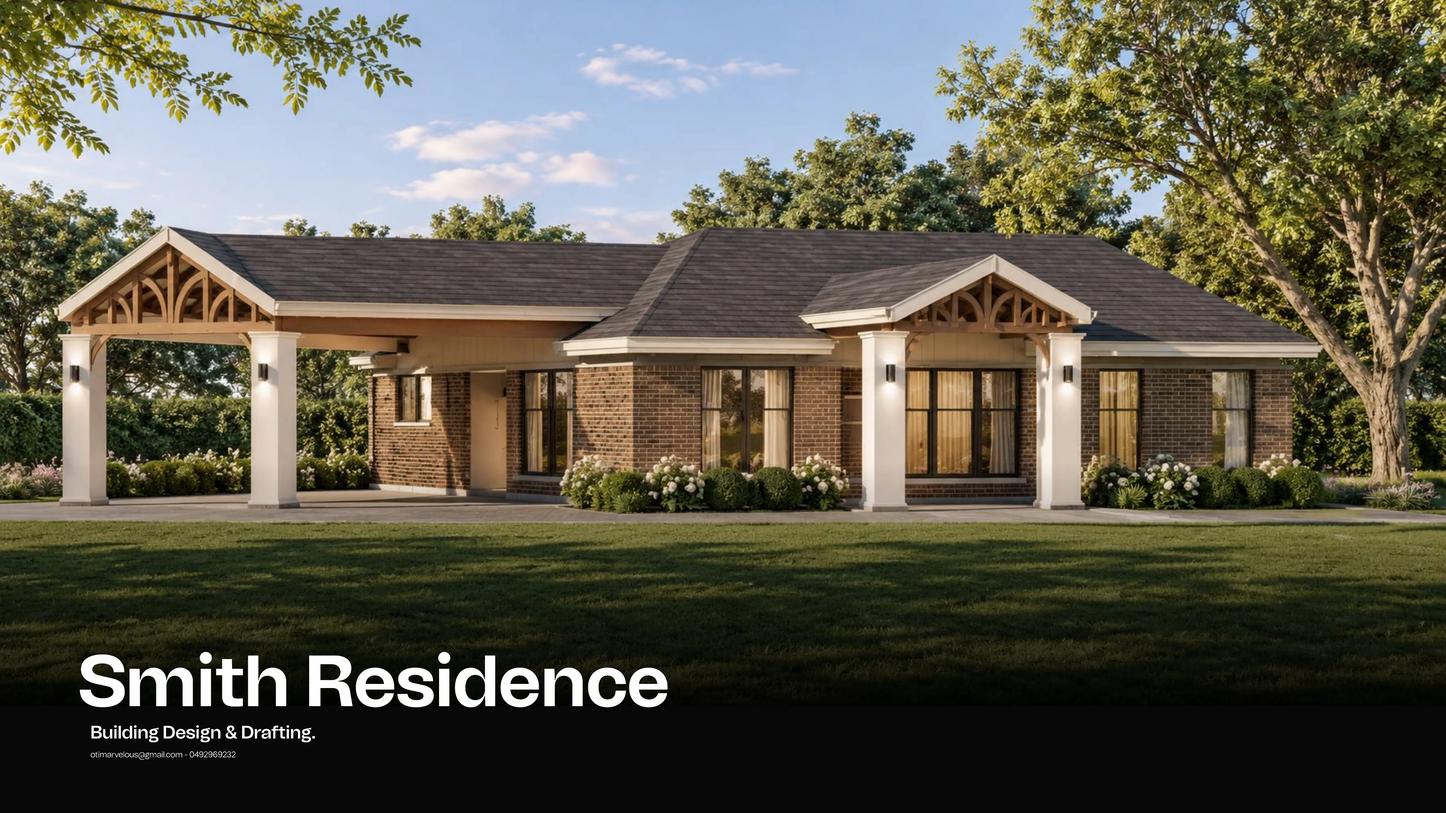
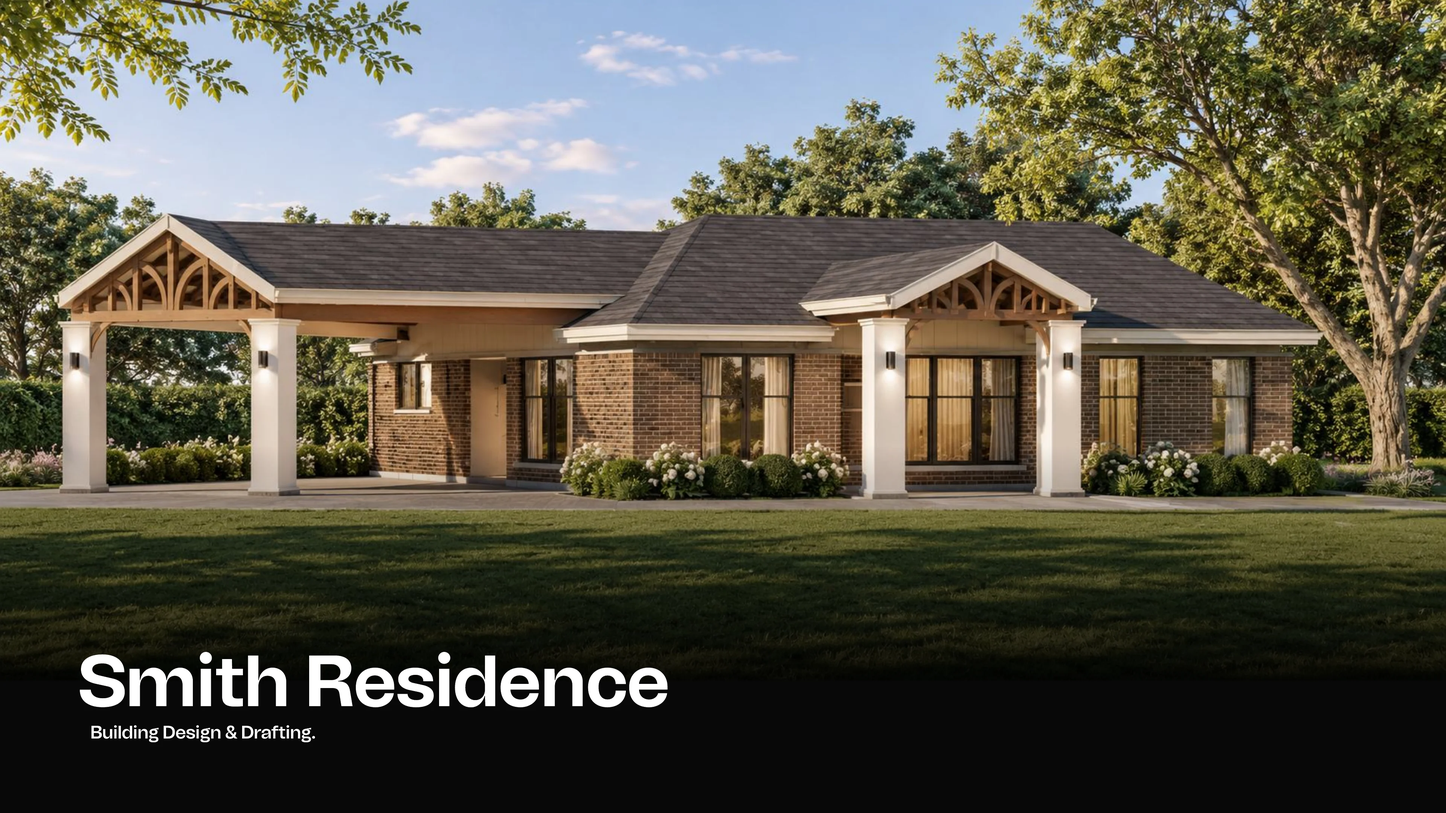
Smith Residence: the seven pages from the draft portfolio
Title page, site plan (A01), project overview with two 3D views, floor
plan (A03), kitchen blow-out (A04), elevations (A05), and section and
detail (A06), replacing Frames 52, 55 and 60.

Claude-Session: https://claude.ai/code/session_01XrsNxmTzmpsovjqss1yHEC

diff --git a/projects/books.js b/projects/books.js
@@ -160,15 +160,31 @@ window.BOOKS =
     "frames": [
       {
         "src": "assets/images/smith-residence-1-title.webp",
-        "alt": "Smith Residence: a render of the single-storey brick house at golden hour, with its hipped roof, a gabled carport and a gabled entry porch on white columns, under the title Smith Residence, Building Design & Drafting, and Obinna's contact details."
+        "alt": "Smith Residence: a render of the single-storey brick house at golden hour, with its hipped roof, a gabled carport and a gabled entry porch on white columns, under the title Smith Residence, Building Design & Drafting."
       },
       {
-        "src": "assets/images/smith-residence-2-floor-plan.webp",
-        "alt": "Smith Residence, floor plan (sheet A01, 1:50): the family room, kitchen, dining, laundry, WC, bathroom and three bedrooms, with the carport and deck, overall dimensions, a legend, general notes, and the door and window schedules. Overview: this stage focused on developing the architectural floor plan and elevations, translating the design concept into accurate technical drawings."
+        "src": "assets/images/smith-residence-2-site-plan.webp",
+        "alt": "Smith Residence, site plan (sheet A01): the house on its lot with the north point, boundaries and notes, beside the site information and the proposal."
       },
       {
-        "src": "assets/images/smith-residence-3-section.webp",
-        "alt": "Smith Residence, section and detail (sheet A03): a section through the house showing the 22.5° pitched roof, ridge beam, rafters and ceiling joists on a raft slab footing, with a 3D detail and a section of the brick veneer wall meeting the slab and concrete paving. Overview: this stage focused on detailed building sections and construction details, specifying roof framing, wall systems, insulation, floor construction and footings."
+        "src": "assets/images/smith-residence-3-overview.webp",
+        "alt": "Smith Residence, project overview: two 3D views of the house, one from the entry porch and one from the carport, beside the project details, the context and the list of sheets."
+      },
+      {
+        "src": "assets/images/smith-residence-4-floor-plan.webp",
+        "alt": "Smith Residence, floor plan (sheet A03, 1:50): the dimensioned plan of the family room, kitchen, dining, laundry, bathroom, WC and three bedrooms with the carport and deck, beside a colour-coded plan of the rooms."
+      },
+      {
+        "src": "assets/images/smith-residence-5-kitchen.webp",
+        "alt": "Smith Residence, floor plan blow-out (sheet A04): two kitchen layout options drawn at a larger scale, with the general notes for the kitchen."
+      },
+      {
+        "src": "assets/images/smith-residence-6-elevations.webp",
+        "alt": "Smith Residence, elevations (sheet A05, 1:50): the north, south, east and west elevations, with the brick veneer, roof pitches, carport and porch gables annotated."
+      },
+      {
+        "src": "assets/images/smith-residence-7-section.webp",
+        "alt": "Smith Residence, section and detail (sheet A06): a section through the house showing the roof framing on a raft slab, with a 3D detail and a section of the brick veneer wall meeting the slab and paving."
       }
     ]
   },

diff --git a/README.md b/README.md
@@ -150,7 +150,7 @@ Current books:
 | 02 Super Slides | cover · moodboard · concept sketching · CAD · render · colourways · back cover |
 | 03 Tangerine | cover · moodboard (Frame 10) · concept sketching (Frame 12) · renders (Frame 48) · back cover |
 | 04 Vivonne Cabin | cover · site and proposal · option 01 (gable): 3D view, plans and elevations, section, details, schedules, compliance blow-out · option 02 (split skillion): 3D view, plans and elevations, section · back cover |
-| 05 Smith Residence | cover · title page (Frame 52) · floor plan, sheet A01 (Frame 55) · section and detail, sheet A03 (Frame 60) · back cover |
+| 05 Smith Residence | cover · title page · site plan (A01) · project overview · floor plan (A03) · kitchen blow-out (A04) · elevations (A05) · section and detail (A06) · back cover |
 | 06 Blackwood Cafe | cover · one blank spread (its pages aren't in yet) · back cover |
 
 ### Spreads made from your Figma frames
@@ -176,9 +176,13 @@ vivonne-10-option2-section.webp   (p. 14)
 tangerine-1-moodboard.webp   (Frame 10)
 tangerine-2-sketching.webp   (Frame 12)
 tangerine-3-render.webp      (Frame 48)
-smith-residence-1-title.webp        (Frame 52)
-smith-residence-2-floor-plan.webp   (Frame 55)
-smith-residence-3-section.webp      (Frame 60)
+smith-residence-1-title.webp        (draft portfolio, p. 3)
+smith-residence-2-site-plan.webp    (p. 4)
+smith-residence-3-overview.webp     (p. 5)
+smith-residence-4-floor-plan.webp   (p. 6)
+smith-residence-5-kitchen.webp      (p. 7)
+smith-residence-6-elevations.webp   (p. 8)
+smith-residence-7-section.webp      (p. 9)
 ```
 
 To update a spread, send the new PDF (or export the frame from Figma as PNG at 2×), convert it to WebP and overwrite the file. To add one, add a `{ "src": …, "alt": … }` line to the book's `frames` in `projects/books.js`. A book with an empty `frames` list (Blackwood Cafe, for now) opens to one blank spread. The words are part of the image, so a description of each frame and its text is written into the image's `alt` text for screen readers. On a phone, where one page shows at a time, that text is small.
